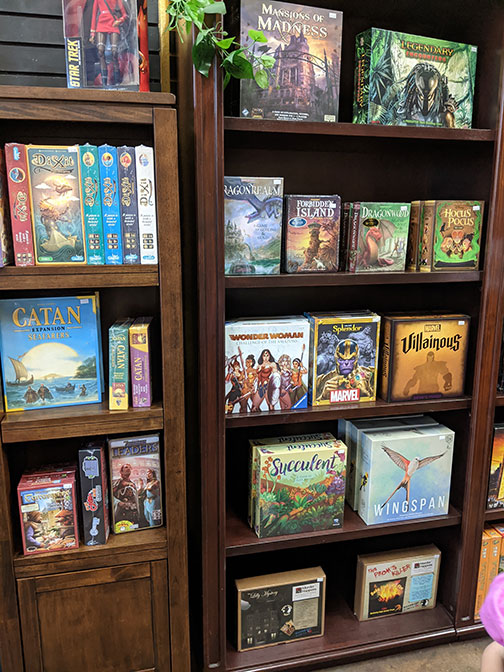
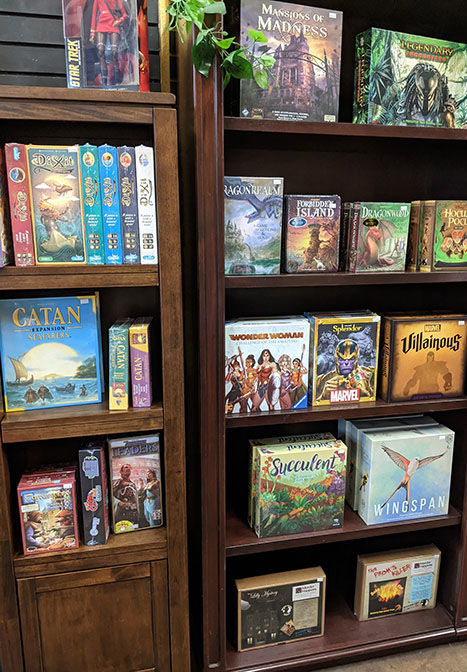
aside media picture

diff --git a/index.html b/index.html
@@ -43,7 +43,7 @@
         <article class="small b">
             <h2>From 3 to 103</h2>
             <figure>
-                <img src="img/ZorRus.jpg" alt="toddlers play">
+                <img src="img/ZorRus.jpg" alt="family plays a game Marrakesh">
                 <figcaption>Playing a game "Marrakesh"</figcaption>
             </figure>
             <p>Every day we have to do so many things, we gun, and run, and run… But sometimes we can find time just to gather together and spend some time as a family. Not all games fit any age and sometimes it could be tricky to find a game that is fun for everyone. We have several family games and some of them can play even toddlers. </p>
@@ -51,14 +51,15 @@
     </main>
 
     <aside>
-        <img src="img/Game-Seeker_SantaBarbara.jpg" alt="">
+        <picture>
+            <source media="(max-width: 799px)" srcset="img/Game-Seeker_SantaBarbara.jpg" />
+            <source media="(min-width: 800px)" srcset="img/Game-Seeker_SantaBarbara_short.jpg" />
+            <img src="img/Game-Seeker_SantaBarbara.jpg" alt="Game Seeker store in Santa Barbara" />
+          </picture>
+
         <h2>Local happy place</h2>
         <p>You can go to the board game cafe and explore different kinds of games. Local stores or board game cafes are a great way to try out a game before buying it, great for those that do not have a lot of space to store many games, and also a great place to find people to play with. <a href="pages/local.html"> Learn more...</a></p> 
     </aside>
-
-
-   
-   
 
     <footer><p>&copy; Copyright 2023</p>
     <img class='icon' src="img/facebook_color.png" alt="facebook icon">
@@ -70,11 +71,3 @@
 </html>
 
 
-
-
-
-
-
-<!--As for the topic, choose to educate the user about something that you are passionate about, (for example, if I was building this website I would educate you about the ocean and the importance of protecting the wildlife that lives there). You will need to provide actual content (no lorem-ipsum). You must include both text-based content and information as well as images that add interest and support your topic. You will need to use at least 5 inline-based elements (can use more), and at least 2 background images. You must use at least 6 icons throughout your webpages.
-
--->

diff --git a/css/styles.css b/css/styles.css
@@ -70,7 +70,6 @@ main{
 .small{
     background-color: white;
     box-shadow: 1px 1px 8px #5c5c5c;
-    padding-bottom: 1rem;
     margin-top: 4rem;
     border-radius: 2rem;
 }
@@ -104,8 +103,7 @@ h2{
 aside p, article p {
     font-size: 1.6em;
     line-height: 1.4;
-    margin-bottom: 1.5em;
-    margin: 10px;
+    padding: 2rem;
 }
 
 aside{
@@ -113,11 +111,11 @@ aside{
     color: white;
     overflow: auto;
     max-width: 1200px;
-    padding-right: 2rem;
+    padding-right: 1rem;
 }
 
 aside img{
-    width: 40%;
+    width: 47%;
     float: left;
     margin-right: 2rem;
 }
